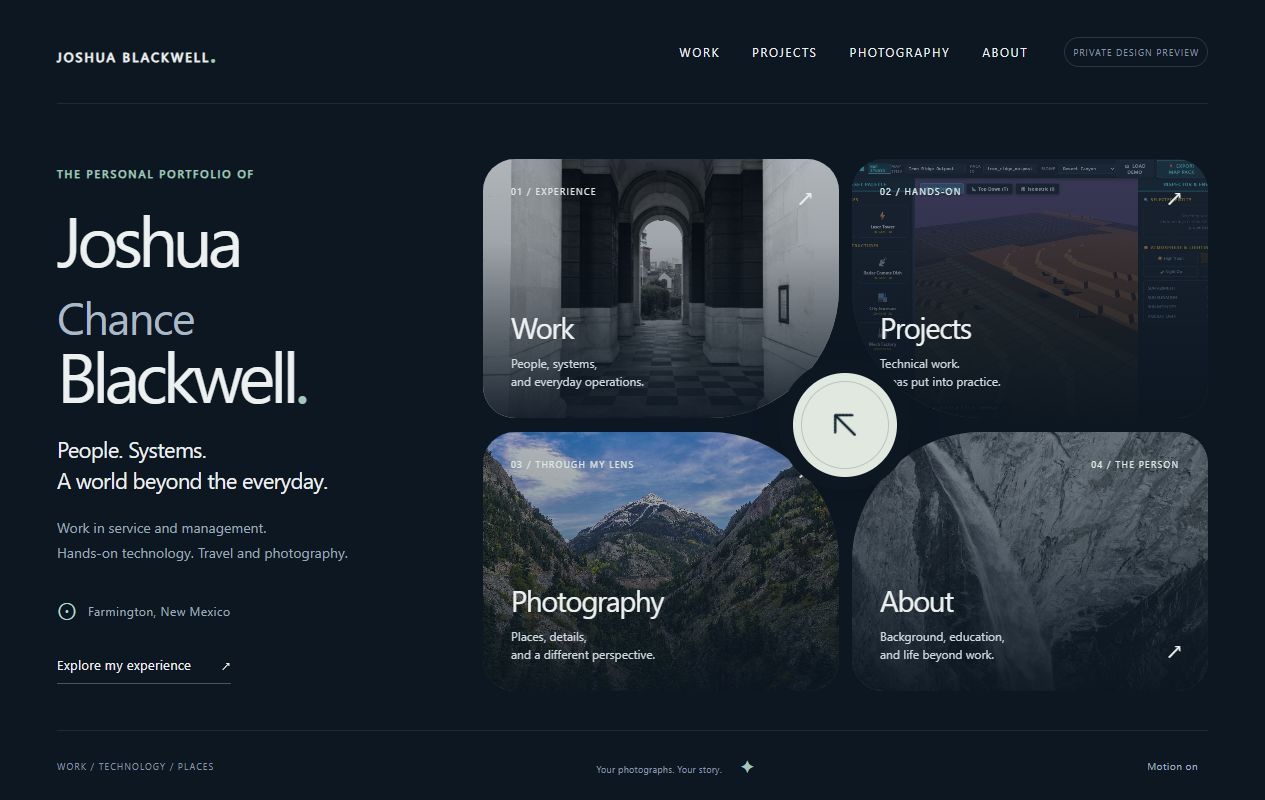
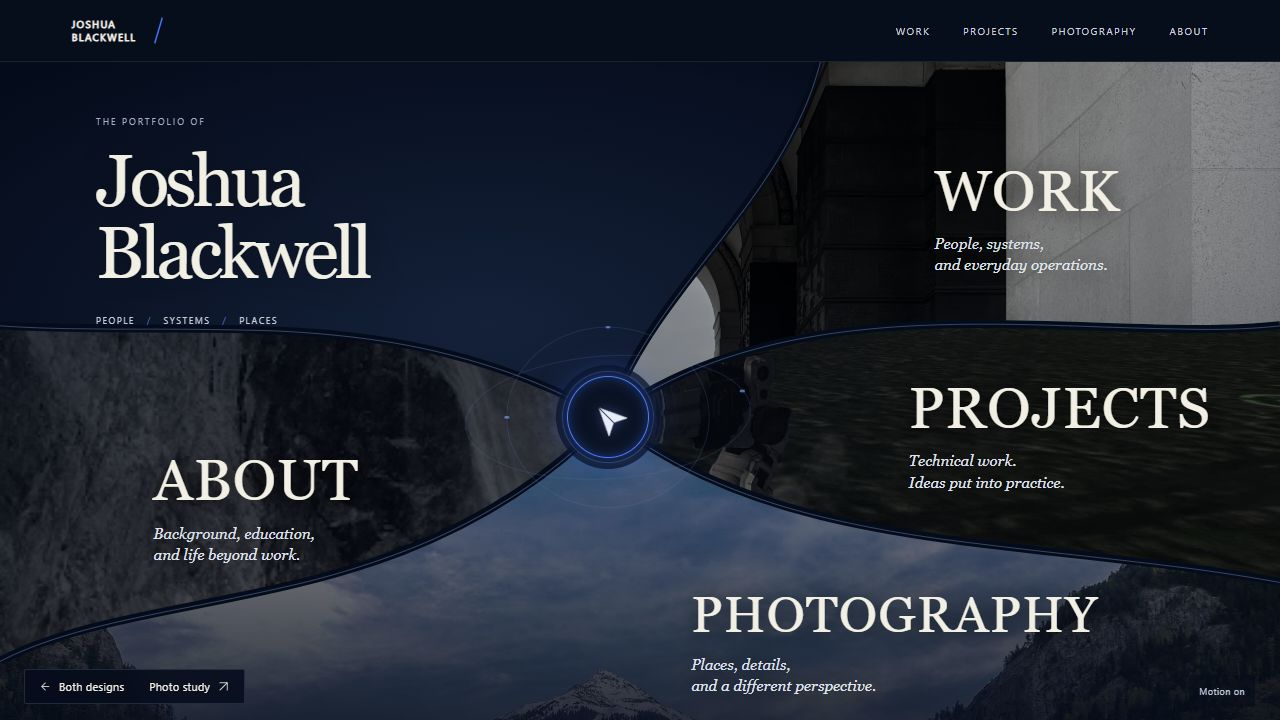
Rebuild switchboard as sweeping photographic regions

diff --git a/curved/index.html b/curved/index.html
@@ -1,25 +1,26 @@
 <!doctype html>
-<html lang="en"><head><meta charset="utf-8"><meta name="viewport" content="width=device-width,initial-scale=1"><meta name="robots" content="noindex,nofollow"><meta name="theme-color" content="#091723"><title>Joshua Chance Blackwell — Personal portfolio preview</title><link rel="stylesheet" href="style.css"></head>
-<body><nav class="design-nav" aria-label="Design options"><a href="../">← Both designs</a><span>JOSHUA BLACKWELL / PORTFOLIO EXPLORATIONS</span><a href="../photo/">Photo study ↗</a></nav>
+<html lang="en"><head><meta charset="utf-8"><meta name="viewport" content="width=device-width,initial-scale=1"><meta name="robots" content="noindex,nofollow"><meta name="theme-color" content="#091723"><title>Joshua Chance Blackwell — Personal portfolio preview</title><link rel="stylesheet" href="style.css"><link rel="stylesheet" href="sweeping.css"></head>
+<body><nav class="design-nav" aria-label="Design options"><a href="../"><svg class="icon" viewBox="0 0 24 24" aria-hidden="true"><path d="M19 12H5m7-7-7 7 7 7"/></svg> Both designs</a><span>JOSHUA BLACKWELL / PORTFOLIO EXPLORATIONS</span><a href="../photo/">Photo study <svg class="icon" viewBox="0 0 24 24" aria-hidden="true"><path d="M5 19 19 5M5 5h14v14"/></svg></a></nav>
 <a class="skip" href="#main">Skip to content</a>
-<header class="masthead"><a class="brand" href="#" aria-label="Joshua Blackwell home">JOSHUA BLACKWELL<span class="brand-dot">.</span></a><nav aria-label="Main navigation"><a href="#work" data-open="work">Work</a><a href="#projects" data-open="projects">Projects</a><a href="#photography" data-open="photography">Photography</a><a href="#about" data-open="about">About</a></nav><span class="preview-tag">DESIGN PREVIEW</span></header>
+<header class="masthead"><a class="brand" href="#" aria-label="Joshua Blackwell home"><span>JOSHUA<br>BLACKWELL</span><svg viewBox="0 0 20 40" aria-hidden="true"><path d="M15 3 5 37"/></svg></a><nav aria-label="Main navigation"><a href="#work" data-open="work">Work</a><a href="#projects" data-open="projects">Projects</a><a href="#photography" data-open="photography">Photography</a><a href="#about" data-open="about">About</a></nav></header>
 <main id="main" tabindex="-1">
 <section class="landing" aria-labelledby="intro-title">
- <div class="intro"><p class="eyebrow">THE PERSONAL PORTFOLIO OF</p><h1 id="intro-title">Joshua<br><span>Chance</span><br>Blackwell<span class="period">.</span></h1><p class="intro-copy">People. Systems.<br> A world beyond the everyday.</p><p class="intro-detail">Work in service and management.<br>Hands-on technology. Travel and photography.</p><div class="location"><span class="location-mark" aria-hidden="true">⊙</span> Farmington, New Mexico</div><a class="text-link" href="#work" data-open="work">Explore my experience <span aria-hidden="true">↗</span></a></div>
- <div class="switchboard" aria-label="Choose a section">
-  <a class="tile tile-work" href="#work" data-open="work" data-angle="-135"><img src="../assets/europe-arches.jpg" alt="" aria-hidden="true"><div class="tile-shade"></div><span class="tile-number">01 / EXPERIENCE</span><div class="tile-label"><h2>Work</h2><p>People, systems,<br>and everyday operations.</p></div><span class="tile-plus" aria-hidden="true">↗</span></a>
-  <a class="tile tile-projects" href="#projects" data-open="projects" data-angle="-45"><img src="../assets/mod-tools-studio.jpg" alt="" aria-hidden="true"><div class="tile-shade"></div><span class="tile-number">02 / HANDS-ON</span><div class="tile-label"><h2>Projects</h2><p>Technical work.<br>Ideas put into practice.</p></div><span class="tile-plus" aria-hidden="true">↗</span></a>
-  <a class="tile tile-photography" href="#photography" data-open="photography" data-angle="135"><img src="../assets/colorado-valley.jpg" alt="" aria-hidden="true"><div class="tile-shade"></div><span class="tile-number">03 / THROUGH MY LENS</span><div class="tile-label"><h2>Photography</h2><p>Places, details,<br>and a different perspective.</p></div><span class="tile-plus" aria-hidden="true">↗</span></a>
-  <a class="tile tile-about" href="#about" data-open="about" data-angle="45"><img src="../assets/colorado-waterfall.jpg" alt="" aria-hidden="true"><div class="tile-shade"></div><span class="tile-number">04 / THE PERSON</span><div class="tile-label"><h2>About</h2><p>Background, education,<br>and life beyond work.</p></div><span class="tile-plus" aria-hidden="true">↗</span></a>
-  <div class="compass" aria-hidden="true"><div class="compass-ring"></div><svg class="compass-arrow" viewBox="0 0 60 60"><path d="M14 30h32M32 16l14 14-14 14"/></svg></div>
+<div class="intro"><p class="eyebrow">THE PORTFOLIO OF</p><h1 id="intro-title">Joshua<br>Blackwell</h1><p class="intro-copy">PEOPLE <span>/</span> SYSTEMS <span>/</span> PLACES</p><p class="intro-detail">Service, management &amp; technology.<br>A life of learning and exploration.</p><a class="text-link" href="#work" data-open="work">Explore my experience <svg class="icon" viewBox="0 0 24 24" aria-hidden="true"><path d="M5 19 19 5M5 5h14v14"/></svg></a></div>
+ <div class="switchboard" aria-label="Choose a section"><svg class="shape-definitions" aria-hidden="true"><defs><clipPath id="clip-work" clipPathUnits="objectBoundingBox"><path d="M .64 0 L 1 0 L 1 .40 C .86 .43 .63 .32 .475 .54 C .51 .34 .61 .22 .64 0 Z"/></clipPath><clipPath id="clip-projects" clipPathUnits="objectBoundingBox"><path d="M 1 .40 L 1 .79 C .8 .72 .61 .75 .475 .54 C .63 .32 .86 .43 1 .40 Z"/></clipPath><clipPath id="clip-photography" clipPathUnits="objectBoundingBox"><path d="M 0 .91 C .12 .79 .32 .85 .475 .54 C .61 .75 .8 .72 1 .79 L 1 1 L 0 1 Z"/></clipPath><clipPath id="clip-about" clipPathUnits="objectBoundingBox"><path d="M 0 .40 C .16 .42 .31 .36 .475 .54 C .32 .85 .12 .79 0 .91 Z"/></clipPath></defs></svg>
+  <a class="tile tile-work" href="#work" data-open="work" data-angle="-135"><img src="../assets/europe-arches.jpg" alt="" aria-hidden="true"><div class="tile-shade"></div><span class="tile-number">01 / EXPERIENCE</span><div class="tile-label"><h2>Work</h2><p>People, systems,<br>and everyday operations.</p></div><span class="tile-plus" aria-hidden="true"><svg class="icon" viewBox="0 0 24 24" aria-hidden="true"><path d="M5 19 19 5M5 5h14v14"/></svg></span></a>
+  <a class="tile tile-projects" href="#projects" data-open="projects" data-angle="-45"><img src="../assets/mw3-grasslands.jpg" alt="" aria-hidden="true"><div class="tile-shade"></div><span class="tile-number">02 / HANDS-ON</span><div class="tile-label"><h2>Projects</h2><p>Technical work.<br>Ideas put into practice.</p></div><span class="tile-plus" aria-hidden="true"><svg class="icon" viewBox="0 0 24 24" aria-hidden="true"><path d="M5 19 19 5M5 5h14v14"/></svg></span></a>
+  <a class="tile tile-photography" href="#photography" data-open="photography" data-angle="135"><img src="../assets/colorado-valley.jpg" alt="" aria-hidden="true"><div class="tile-shade"></div><span class="tile-number">03 / THROUGH MY LENS</span><div class="tile-label"><h2>Photography</h2><p>Places, details,<br>and a different perspective.</p></div><span class="tile-plus" aria-hidden="true"><svg class="icon" viewBox="0 0 24 24" aria-hidden="true"><path d="M5 19 19 5M5 5h14v14"/></svg></span></a>
+  <a class="tile tile-about" href="#about" data-open="about" data-angle="45"><img src="../assets/colorado-waterfall.jpg" alt="" aria-hidden="true"><div class="tile-shade"></div><span class="tile-number">04 / THE PERSON</span><div class="tile-label"><h2>About</h2><p>Background, education,<br>and life beyond work.</p></div><span class="tile-plus" aria-hidden="true"><svg class="icon" viewBox="0 0 24 24" aria-hidden="true"><path d="M5 19 19 5M5 5h14v14"/></svg></span></a>
+<svg class="contours" viewBox="0 0 1 1" preserveAspectRatio="none" aria-hidden="true"><g class="channels"><path d="M .64 0 C .61 .22 .51 .34 .475 .54 C .63 .32 .86 .43 1 .40"/><path d="M 0 .40 C .16 .42 .31 .36 .475 .54 C .61 .75 .8 .72 1 .79"/><path d="M 0 .91 C .12 .79 .32 .85 .475 .54"/></g><g class="fine-lines"><path d="M .641 0 C .611 .22 .511 .34 .476 .54 C .631 .32 .861 .43 1 .401"/><path d="M 0 .401 C .16 .421 .31 .361 .475 .541 C .61 .751 .8 .721 1 .791"/><path d="M 0 .911 C .12 .791 .32 .851 .476 .54"/></g><g class="orbit-lines"><ellipse cx=".475" cy=".54" rx=".079" ry=".137"/><ellipse cx=".475" cy=".54" rx=".113" ry=".092" transform="rotate(-18 .475 .54)"/></g><g class="orbit-dots"><circle cx=".396" cy=".54" r=".002"/><circle cx=".475" cy=".403" r=".0016"/><circle cx=".58" cy=".5" r=".002"/></g></svg>
+  <div class="compass" aria-hidden="true"><div class="compass-ring"></div><svg class="compass-arrow" viewBox="0 0 60 60"><path class="plane-body" d="M47 30 13 14l8 16-8 16 34-16Z"/><path class="plane-fold" d="M21 30h26"/></svg></div>
  </div>
 </section>
-<footer class="home-footer"><span>WORK / TECHNOLOGY / PLACES</span><span>Your photographs. Your story.<i aria-hidden="true">✦</i></span><button id="motion-toggle" type="button" aria-pressed="false">Motion on</button></footer>
+<footer class="home-footer"><span>WORK / TECHNOLOGY / PLACES</span><span>Your photographs. Your story.<i aria-hidden="true"></i></span><button id="motion-toggle" type="button" aria-pressed="false">Motion on</button></footer>
 </main>
-<dialog id="chapter" aria-labelledby="chapter-title"><div class="chapter-shell"><header class="chapter-bar"><button class="back" type="button"><span aria-hidden="true">↙</span> Back to overview</button><span id="chapter-index"></span><button class="close" type="button" aria-label="Close section">×</button></header><div id="chapter-content"></div></div></dialog>
-<template id="work-content"><section class="chapter-hero"><div><p class="eyebrow">01 / WORK & MANAGEMENT</p><h2 id="chapter-title" tabindex="-1">Experience,<br>in practice.</h2><p class="chapter-lead">My background spans service operations, retail management, and regional inventory. Across those roles, I’ve supported the systems people use, trained colleagues, and helped resolve the problems that interrupt their work.</p></div><figure class="hero-photo"><img src="../assets/europe-arches.jpg" alt="A sequence of stone arches above a patterned floor"><figcaption>From the Europe album · November 2024</figcaption></figure></section><section class="experience-list" aria-label="Employment history"><article><div class="job-date">2015 — PRESENT<span>Farmington, NM</span></div><div><p class="eyebrow">ANIMAS NISSAN HYUNDAI</p><h3>Senior Service Advisor</h3><ul><li>Support scheduling and customer-management systems used in daily operations.</li><li>Troubleshoot access issues, workflow errors, and system-related problems.</li><li>Train staff on digital tools and standardized procedures.</li><li>Document workflows, maintain digital records, and coordinate across departments.</li></ul></div></article><article><div class="job-date">2010 — 2015<span>Farmington, NM</span></div><div><p class="eyebrow">AT&T MOBILITY</p><h3>Retail Sales Manager</h3><p>Supported point-of-sale systems and internal software. Assisted staff with access and troubleshooting, and maintained documentation and training materials.</p></div></article><article><div class="job-date">2003 — 2010<span>Farmington, NM</span></div><div><p class="eyebrow">ALLTEL WIRELESS</p><h3>Regional Inventory Manager</h3><p>Managed inventory systems across multiple locations, maintained reporting and records, and helped troubleshoot system discrepancies.</p></div></article></section><section class="skills-band"><p class="eyebrow">PRACTICAL STRENGTHS</p><div class="skill-list"><span>End-user support</span><span>Hardware diagnostics</span><span>Software configuration</span><span>Account & access support</span><span>Documentation</span><span>User training</span></div></section><button class="chapter-next" data-go="about">Background & education <span>↗</span></button></template>
-<template id="projects-content"><section class="chapter-hero project-intro"><div><p class="eyebrow">02 / TECHNICAL WORK</p><h2 id="chapter-title" tabindex="-1">Learning by<br>building.</h2><p class="chapter-lead">A home lab for running services, working through technical problems, and documenting what works.</p></div><div class="lab-diagram" aria-label="Five systems supporting virtual machines, networking and services"><span class="diagram-label">HOME LAB / FIVE SYSTEMS</span><div class="lab-nodes"><i></i><i></i><i></i><i></i><i></i></div><strong>Proxmox / OPNsense</strong><span>Virtualization · Firewall · Network segmentation</span></div></section><section class="project-grid"><article><span class="eyebrow">01 / INFRASTRUCTURE</span><h3>Five systems.<br>One place to experiment.</h3><p>I designed and maintain a virtualized home lab, deploying virtual machines in Proxmox and managing an OPNsense firewall with network segmentation.</p></article><article><span class="eyebrow">02 / SERVICES</span><h3>Self-hosted,<br>maintained, documented.</h3><p>The environment hosts web services, game servers, and media servers. I handle updates, backups, monitoring, troubleshooting, and configuration documentation.</p></article></section><section class="project-feature"><img src="../assets/mw3-grasslands.jpg" alt="Gameplay view from the MechWarrior 3 Recomp project"><div><p class="eyebrow">SELECTED PROJECT</p><h3>MechWarrior 3 Recomp</h3><p>An experimental game-modernization project with a native runtime, Vulkan rendering, and editing tools.</p><p class="draft-note">Project notes are being expanded.</p><a class="text-link" href="https://github.com/roswellien/MW3Recomp" target="_blank" rel="noreferrer">View public repository ↗</a></div></section><button class="chapter-next" data-go="photography">See a different perspective <span>↗</span></button></template>
-<template id="photography-content"><section class="photo-intro"><p class="eyebrow">03 / PHOTOGRAPHY & TRAVEL</p><h2 id="chapter-title" tabindex="-1">Elsewhere.</h2><p>Selected photographs from my travel albums.</p><div class="photo-filters" role="group" aria-label="Filter photographs"><button aria-pressed="true" data-filter="all">All photographs</button><button aria-pressed="false" data-filter="colorado">Colorado / 2013</button><button aria-pressed="false" data-filter="europe">Europe / 2024</button></div></section><section class="photo-grid" aria-label="Selected photographs"><figure data-place="colorado"><button class="photo-open" data-photo="0" aria-label="View Colorado mountain valley"><img src="../assets/colorado-valley.jpg" alt="A Colorado mountain valley with evergreen forest and a blue sky"></button><figcaption><span>Mountain valley</span><small>Colorado · September 2013</small></figcaption></figure><figure data-place="europe"><button class="photo-open" data-photo="1" aria-label="View European stone arches"><img src="../assets/europe-arches.jpg" alt="Repeating stone arches and a checkered walkway"></button><figcaption><span>Through the arches</span><small>Europe · November 2024</small></figcaption></figure><figure data-place="colorado"><button class="photo-open" data-photo="2" aria-label="View Colorado waterfall"><img src="../assets/colorado-waterfall.jpg" alt="A waterfall descending between steep rock faces"></button><figcaption><span>Water & stone</span><small>Colorado · September 2013</small></figcaption></figure></section><p class="selection-note">An opening selection. More images and personal travel notes will follow.</p><button class="chapter-next" data-go="about">Meet the person behind the lens <span>↗</span></button></template>
-<template id="about-content"><section class="chapter-hero"><div><p class="eyebrow">04 / BACKGROUND & EDUCATION</p><h2 id="chapter-title" tabindex="-1">Based in<br>New Mexico.<br>Still exploring.</h2><p class="chapter-lead">I’m Joshua Chance Blackwell. My professional life brings together service, management, and technology. Outside work, my interests include travel, photography, and hands-on technical projects.</p></div><figure class="hero-photo"><img src="../assets/colorado-valley.jpg" alt="A mountain valley photographed during a Colorado trip"><figcaption>Sunday in Colorado · September 2013</figcaption></figure></section><section class="education"><p class="eyebrow">EDUCATION</p><article><span>IN PROGRESS</span><h3>Bachelor of Science<br>Business Administration</h3><p>University of New Mexico</p></article><article><span>ASSOCIATE DEGREE</span><h3>Applied Science<br>Information Technology</h3><p>San Juan College</p></article></section><section class="about-personal"><h3>Beyond the job title.</h3><p>Travel and photography have a place here alongside my professional background. This section will grow with the places, images, and personal stories I choose to share.</p><p class="draft-note"></p></section><button class="chapter-next" data-go="work">Back to professional experience <span>↗</span></button></template>
-<dialog id="lightbox" aria-label="Photograph viewer"><button class="lightbox-close" aria-label="Close photograph">×</button><button class="photo-prev" aria-label="Previous photograph">←</button><figure><img id="lightbox-image" alt=""><figcaption id="lightbox-caption"></figcaption></figure><button class="photo-next" aria-label="Next photograph">→</button></dialog>
+<dialog id="chapter" aria-labelledby="chapter-title"><div class="chapter-shell"><header class="chapter-bar"><button class="back" type="button"><span aria-hidden="true"><svg class="icon" viewBox="0 0 24 24" aria-hidden="true"><path d="M19 12H5m7-7-7 7 7 7"/></svg></span> Back to overview</button><span id="chapter-index"></span><button class="close" type="button" aria-label="Close section"><svg class="icon" viewBox="0 0 24 24" aria-hidden="true"><path d="m6 6 12 12M6 18 18 6"/></svg></button></header><div id="chapter-content"></div></div></dialog>
+<template id="work-content"><section class="chapter-hero"><div><p class="eyebrow">01 / WORK & MANAGEMENT</p><h2 id="chapter-title" tabindex="-1">Experience,<br>in practice.</h2><p class="chapter-lead">My background spans service operations, retail management, and regional inventory. Across those roles, I’ve supported the systems people use, trained colleagues, and helped resolve the problems that interrupt their work.</p></div><figure class="hero-photo"><img src="../assets/europe-arches.jpg" alt="A sequence of stone arches above a patterned floor"><figcaption>From the Europe album · November 2024</figcaption></figure></section><section class="experience-list" aria-label="Employment history"><article><div class="job-date">2015 — PRESENT<span>Farmington, NM</span></div><div><p class="eyebrow">ANIMAS NISSAN HYUNDAI</p><h3>Senior Service Advisor</h3><ul><li>Support scheduling and customer-management systems used in daily operations.</li><li>Troubleshoot access issues, workflow errors, and system-related problems.</li><li>Train staff on digital tools and standardized procedures.</li><li>Document workflows, maintain digital records, and coordinate across departments.</li></ul></div></article><article><div class="job-date">2010 — 2015<span>Farmington, NM</span></div><div><p class="eyebrow">AT&T MOBILITY</p><h3>Retail Sales Manager</h3><p>Supported point-of-sale systems and internal software. Assisted staff with access and troubleshooting, and maintained documentation and training materials.</p></div></article><article><div class="job-date">2003 — 2010<span>Farmington, NM</span></div><div><p class="eyebrow">ALLTEL WIRELESS</p><h3>Regional Inventory Manager</h3><p>Managed inventory systems across multiple locations, maintained reporting and records, and helped troubleshoot system discrepancies.</p></div></article></section><section class="skills-band"><p class="eyebrow">PRACTICAL STRENGTHS</p><div class="skill-list"><span>End-user support</span><span>Hardware diagnostics</span><span>Software configuration</span><span>Account & access support</span><span>Documentation</span><span>User training</span></div></section><button class="chapter-next" data-go="about">Background & education <span><svg class="icon" viewBox="0 0 24 24" aria-hidden="true"><path d="M5 19 19 5M5 5h14v14"/></svg></span></button></template>
+<template id="projects-content"><section class="chapter-hero project-intro"><div><p class="eyebrow">02 / TECHNICAL WORK</p><h2 id="chapter-title" tabindex="-1">Learning by<br>building.</h2><p class="chapter-lead">A home lab for running services, working through technical problems, and documenting what works.</p></div><div class="lab-diagram" aria-label="Five systems supporting virtual machines, networking and services"><span class="diagram-label">HOME LAB / FIVE SYSTEMS</span><div class="lab-nodes"><i></i><i></i><i></i><i></i><i></i></div><strong>Proxmox / OPNsense</strong><span>Virtualization · Firewall · Network segmentation</span></div></section><section class="project-grid"><article><span class="eyebrow">01 / INFRASTRUCTURE</span><h3>Five systems.<br>One place to experiment.</h3><p>I designed and maintain a virtualized home lab, deploying virtual machines in Proxmox and managing an OPNsense firewall with network segmentation.</p></article><article><span class="eyebrow">02 / SERVICES</span><h3>Self-hosted,<br>maintained, documented.</h3><p>The environment hosts web services, game servers, and media servers. I handle updates, backups, monitoring, troubleshooting, and configuration documentation.</p></article></section><section class="project-feature"><img src="../assets/mw3-grasslands.jpg" alt="Gameplay view from the MechWarrior 3 Recomp project"><div><p class="eyebrow">SELECTED PROJECT</p><h3>MechWarrior 3 Recomp</h3><p>An experimental game-modernization project with a native runtime, Vulkan rendering, and editing tools.</p><p class="draft-note">Project notes are being expanded.</p><a class="text-link" href="https://github.com/roswellien/MW3Recomp" target="_blank" rel="noreferrer">View public repository <svg class="icon" viewBox="0 0 24 24" aria-hidden="true"><path d="M5 19 19 5M5 5h14v14"/></svg></a></div></section><button class="chapter-next" data-go="photography">See a different perspective <span><svg class="icon" viewBox="0 0 24 24" aria-hidden="true"><path d="M5 19 19 5M5 5h14v14"/></svg></span></button></template>
+<template id="photography-content"><section class="photo-intro"><p class="eyebrow">03 / PHOTOGRAPHY & TRAVEL</p><h2 id="chapter-title" tabindex="-1">Elsewhere.</h2><p>Selected photographs from my travel albums.</p><div class="photo-filters" role="group" aria-label="Filter photographs"><button aria-pressed="true" data-filter="all">All photographs</button><button aria-pressed="false" data-filter="colorado">Colorado / 2013</button><button aria-pressed="false" data-filter="europe">Europe / 2024</button></div></section><section class="photo-grid" aria-label="Selected photographs"><figure data-place="colorado"><button class="photo-open" data-photo="0" aria-label="View Colorado mountain valley"><img src="../assets/colorado-valley.jpg" alt="A Colorado mountain valley with evergreen forest and a blue sky"></button><figcaption><span>Mountain valley</span><small>Colorado · September 2013</small></figcaption></figure><figure data-place="europe"><button class="photo-open" data-photo="1" aria-label="View European stone arches"><img src="../assets/europe-arches.jpg" alt="Repeating stone arches and a checkered walkway"></button><figcaption><span>Through the arches</span><small>Europe · November 2024</small></figcaption></figure><figure data-place="colorado"><button class="photo-open" data-photo="2" aria-label="View Colorado waterfall"><img src="../assets/colorado-waterfall.jpg" alt="A waterfall descending between steep rock faces"></button><figcaption><span>Water & stone</span><small>Colorado · September 2013</small></figcaption></figure></section><p class="selection-note">An opening selection. More images and personal travel notes will follow.</p><button class="chapter-next" data-go="about">Meet the person behind the lens <span><svg class="icon" viewBox="0 0 24 24" aria-hidden="true"><path d="M5 19 19 5M5 5h14v14"/></svg></span></button></template>
+<template id="about-content"><section class="chapter-hero"><div><p class="eyebrow">04 / BACKGROUND & EDUCATION</p><h2 id="chapter-title" tabindex="-1">Based in<br>New Mexico.<br>Still exploring.</h2><p class="chapter-lead">I’m Joshua Chance Blackwell. My professional life brings together service, management, and technology. Outside work, my interests include travel, photography, and hands-on technical projects.</p></div><figure class="hero-photo"><img src="../assets/colorado-valley.jpg" alt="A mountain valley photographed during a Colorado trip"><figcaption>Sunday in Colorado · September 2013</figcaption></figure></section><section class="education"><p class="eyebrow">EDUCATION</p><article><span>IN PROGRESS</span><h3>Bachelor of Science<br>Business Administration</h3><p>University of New Mexico</p></article><article><span>ASSOCIATE DEGREE</span><h3>Applied Science<br>Information Technology</h3><p>San Juan College</p></article></section><section class="about-personal"><h3>Beyond the job title.</h3><p>Travel and photography have a place here alongside my professional background. This section will grow with the places, images, and personal stories I choose to share.</p><p class="draft-note"></p></section><button class="chapter-next" data-go="work">Back to professional experience <span><svg class="icon" viewBox="0 0 24 24" aria-hidden="true"><path d="M5 19 19 5M5 5h14v14"/></svg></span></button></template>
+<dialog id="lightbox" aria-label="Photograph viewer"><button class="lightbox-close" aria-label="Close photograph"><svg class="icon" viewBox="0 0 24 24" aria-hidden="true"><path d="m6 6 12 12M6 18 18 6"/></svg></button><button class="photo-prev" aria-label="Previous photograph"><svg class="icon" viewBox="0 0 24 24" aria-hidden="true"><path d="M19 12H5m7-7-7 7 7 7"/></svg></button><figure><img id="lightbox-image" alt=""><figcaption id="lightbox-caption"></figcaption></figure><button class="photo-next" aria-label="Next photograph"><svg class="icon" viewBox="0 0 24 24" aria-hidden="true"><path d="M5 12h14m-7-7 7 7-7 7"/></svg></button></dialog>
 <script src="app.js"></script></body></html>

diff --git a/curved/sweeping.css b/curved/sweeping.css
@@ -1,0 +1,10 @@
+/* Full-width photographic switchboard. The original grid styles remain only for chapter content. */
+:root{--night:#030b1b;--ivory:#f3efe4;--electric:#3375ff}body{background:var(--night);color:var(--ivory)}.icon{width:18px;height:18px;display:inline-block;vertical-align:middle;flex-shrink:0;fill:none;stroke:currentColor;stroke-width:1.5;stroke-linecap:round;stroke-linejoin:round}.design-nav{position:fixed;left:24px;bottom:16px;z-index:50;padding:9px 14px;background:#030b1bdf;border:1px solid #6980a340;border-radius:2px;gap:25px;backdrop-filter:blur(12px);font-size:11px}.design-nav span{display:none}.design-nav a{display:flex;gap:7px;align-items:center;text-decoration:none}.design-nav a:hover{color:#8aafff}.design-nav .icon{width:13px;height:13px}.masthead{height:62px;min-height:62px;margin:0;padding:0 5.6%;background:#050d1c;border-bottom:1px solid #ffffff14;position:relative;z-index:30;max-width:none;gap:25px}.brand{display:flex;align-items:center;gap:15px;font-size:10px;line-height:1.24;letter-spacing:.13em}.brand>svg{height:31px;width:15px;stroke:var(--electric);stroke-width:2;fill:none}.masthead nav{font-size:10px;gap:33px;letter-spacing:.14em}.masthead nav a{color:#cbd2df}.masthead nav a:hover{color:#fff}.landing{display:block;position:relative;padding:0;margin:0;max-width:none;min-height:720px;height:calc(100svh - 62px);overflow:hidden;isolation:isolate;background:radial-gradient(ellipse at 38% 40%,#10213b,#030b1b 60%)}.intro{position:absolute;left:7.5%;top:10%;width:35%;z-index:15;pointer-events:none}.intro .eyebrow{font:9px/1.4 'Segoe UI',sans-serif;color:#a0b0ca;letter-spacing:.22em;margin-bottom:18px}.intro h1{font-family:Georgia,'Times New Roman',serif;font-size:clamp(53px,5.7vw,94px);font-weight:400;letter-spacing:-.055em;line-height:.99;margin:0 0 23px;color:var(--ivory);text-shadow:0 2px 35px #0006}.intro-copy{font-size:9px;font-weight:500;letter-spacing:.16em;line-height:1.6;color:#c3cddd;margin:0}.intro-copy>span{color:#477cff;padding:0 8px}.intro-detail{font-family:Georgia,serif;font-size:14px;font-style:italic;line-height:1.6;color:#9eacc3;margin:18px 0}.intro .text-link{pointer-events:auto;font-size:10px;border-color:#5376ac44;gap:14px;padding-bottom:8px;color:#d6dce8}.intro .text-link .icon{width:13px;height:13px}.switchboard{position:absolute;inset:0;width:100%;height:100%;display:block;gap:0}.shape-definitions{position:absolute;width:0;height:0;overflow:hidden}.tile{position:absolute;inset:0;width:100%;height:100%;border-radius:0!important;will-change:filter;isolation:auto;overflow:hidden;transition:filter .55s;transform:none!important;background:#0b162b;outline:0}.tile-work{clip-path:url(#clip-work)}.tile-projects{clip-path:url(#clip-projects)}.tile-photography{clip-path:url(#clip-photography)}.tile-about{clip-path:url(#clip-about)}.tile>img{width:100%;height:100%;object-fit:cover;opacity:1;transition:transform 1.4s cubic-bezier(.2,.8,.2,1),filter .7s}.tile-work>img{object-position:72% 40%;filter:saturate(.45) brightness(.63)}.tile-projects>img{object-position:70% 50%;filter:saturate(.4) brightness(.6);opacity:1}.tile-photography>img{object-position:50% 64%;filter:saturate(.65) brightness(.72)}.tile-about>img{object-position:26% 56%;filter:saturate(.25) brightness(.48);opacity:1}.tile-shade{background:linear-gradient(100deg,#030b1b4d,#030b1b1a 60%,#030b1b4d);z-index:1}.tile-work .tile-shade{background:linear-gradient(110deg,#030b1b55,#030b1b00 65%,#030b1b4d),linear-gradient(0deg,#030b1b8c,transparent 70%)}.tile-projects .tile-shade{background:linear-gradient(100deg,#030b1bc9,#030b1b28 80%)}.tile-photography .tile-shade{background:linear-gradient(0deg,#030b1bc9,transparent 53%,#030b1b1a)}.tile-about .tile-shade{background:linear-gradient(90deg,#030b1b66,#030b1b33),linear-gradient(0deg,transparent,#030b1b80)}.tile-label{position:absolute;right:auto;bottom:auto;z-index:3;width:27%;text-shadow:0 2px 24px #000b}.tile-work .tile-label{left:73%;top:15%}.tile-projects .tile-label{left:71%;top:48%}.tile-photography .tile-label{left:54%;top:83%;width:39%}.tile-about .tile-label{left:12%;top:59%;width:25%}.tile h2{font:400 clamp(36px,4.5vw,70px)/1.05 Georgia,'Times New Roman',serif;text-transform:uppercase;letter-spacing:.025em;margin:0 0 13px}.tile p{font:italic clamp(12px,1.15vw,18px)/1.45 Georgia,'Times New Roman',serif;color:#dee3ed;letter-spacing:.01em}.tile-number,.tile-plus{display:none}.tile:focus-visible .tile-label{outline:2px solid #82a7ff;outline-offset:14px}.tile:hover{filter:brightness(1.13)}.tile:hover>img,.tile:focus-visible>img{transform:scale(1.035)}.contours{position:absolute;inset:0;z-index:6;width:100%;height:100%;pointer-events:none;overflow:visible}.contours path,.contours ellipse{fill:none;vector-effect:non-scaling-stroke}.channels path{stroke:#030b1b;stroke-width:8}.fine-lines path{stroke:#718ab2;stroke-width:.7;opacity:.65}.orbit-lines ellipse{stroke:#5680ce;stroke-width:.8;opacity:.22}.orbit-dots circle{fill:#75a6ff;opacity:.65}.compass{left:47.5%;top:54%;width:90px;height:90px;z-index:10;background:#071124;color:#f4f2e9;box-shadow:0 0 0 1px #7a9cdb40,0 0 0 7px #071124c4,0 0 30px #2166ff66,inset 0 0 26px #1c4e9f30}.compass-ring{inset:4px;border:1.5px solid #3d7eff;border-radius:50%;box-shadow:0 0 14px #266bff77,inset 0 0 10px #2b70ff55}.compass-arrow{width:47px;height:47px;filter:drop-shadow(0 0 6px #79a2ff55)}.compass-arrow .plane-body{fill:#e7edf8;stroke:#e7edf8;stroke-width:1;stroke-linejoin:round}.compass-arrow .plane-fold{fill:none;stroke:#14284c;stroke-width:1}.home-footer{position:absolute;right:25px;bottom:13px;z-index:20;border:0;margin:0;padding:0;min-height:0;gap:0}.home-footer>span{display:none}.home-footer #motion-toggle{font-size:9px;color:#c1cce0;padding:10px;background:#030b1b99}.landing.leaving .intro{transform:translateX(-25px);opacity:0}.landing.leaving .tile:not(.chosen){opacity:.25;transform:none!important}.transition-surface{border-radius:0;box-shadow:none;z-index:100;background:#071124}.transition-surface img{opacity:.68}.chapter-bar .icon{width:20px;height:20px}.chapter-next .icon{width:25px;height:25px}.chapter-hero h2,.photo-intro h2{font-family:Georgia,'Times New Roman',serif}.close .icon,.lightbox-close .icon{width:25px;height:25px}
+@media(min-width:1800px){.landing{min-height:850px}.intro{top:12%}}
+@media(max-width:1050px) and (min-width:761px){.intro{left:6%;width:38%;top:9%}.intro h1{font-size:64px}.intro-detail{font-size:12px}.tile h2{font-size:40px}.tile-work .tile-label{left:71%}.tile p{font-size:13px}.compass{width:78px;height:78px}}
+@media(max-width:760px){.masthead{height:62px;padding:0 20px;gap:15px;flex-wrap:nowrap}.brand{font-size:8px;gap:8px}.brand>svg{height:26px;width:10px}.masthead nav{gap:13px;font-size:8px;letter-spacing:.07em}.landing{height:auto;min-height:0;overflow:visible;padding:0 0 16px}.intro{position:relative;left:auto;top:auto;width:auto;padding:36px 25px 30px;background:radial-gradient(ellipse at 70% 80%,#122642,#030b1b 75%)}.intro h1{font-size:60px;line-height:.98;margin-bottom:20px}.intro h1 br{display:block}.intro .eyebrow{font-size:8px}.intro-copy{font-size:8px}.intro-detail{font-size:13px}.intro .text-link{margin-top:4px}.switchboard{position:relative;display:flex;flex-direction:column;inset:auto;height:auto;gap:3px;padding-bottom:10px}.tile{position:relative;inset:auto;height:240px;min-height:240px;width:100%;clip-path:none;border-radius:0!important}.tile-work{order:1}.tile-projects{order:2}.tile-photography{order:3}.tile-about{order:4}.tile>img{object-position:center 50%}.tile-work>img{object-position:center 49%}.tile-photography>img{object-position:50% 55%}.tile-about>img{object-position:50% 55%}.tile-shade{background:linear-gradient(90deg,#030b1bc4,#030b1b33)!important}.tile .tile-label{left:26px;top:auto;bottom:33px;width:80%}.tile h2,.tile-photography h2{font-size:39px;margin-bottom:10px}.tile p{font-size:15px}.tile-number{display:block;top:21px;left:26px;font:8px 'Segoe UI',sans-serif;letter-spacing:.17em;max-width:none}.tile-about .tile-number{left:26px;right:auto}.contours{display:none}.compass{left:auto;top:-45px;right:22px;transform:none;width:68px;height:68px;box-shadow:0 0 0 6px #071124c4,0 0 22px #2166ff66}.compass-arrow{width:37px;height:37px}.design-nav{left:0;bottom:0;width:100%;justify-content:space-between;padding:14px 20px;border:0;border-top:1px solid #5375aa40;border-radius:0;font-size:11px}.home-footer{position:relative;right:auto;bottom:auto;padding:0 18px 58px;justify-content:flex-end}.home-footer #motion-toggle{background:none}.tile:focus-visible .tile-label{outline-offset:8px}.chapter-hero h2,.photo-intro h2{font-size:49px}}
+@media(prefers-reduced-motion:reduce){.tile:hover>img,.tile:focus-visible>img{transform:none}.compass-arrow{filter:none}}
+
+@media(min-width:761px){.landing{min-height:580px}.intro{top:8%}.intro-detail,.intro .text-link{display:none}.tile-photography>img{object-position:50% 0%}.tile-photography .tile-label{top:80%;left:54%}.tile-photography h2{font-size:clamp(34px,4vw,64px)}.tile-projects>img{object-position:50% 38%}}
+
+@media(max-width:760px){.compass{z-index:25}}

diff --git a/curved/app.js b/curved/app.js
@@ -8,20 +8,20 @@
  setMotion();media.addEventListener('change',setMotion);$('#motion-toggle').addEventListener('click',()=>{manualMotion=!reduce;setMotion();});
  function tick(){let delta=(((targetAngle-currentAngle+180)%360+360)%360)-180;currentAngle+=delta*.16;arrow.style.transform=`rotate(${currentAngle}deg)`;if(Math.abs(delta)>.08)raf=requestAnimationFrame(tick);else{currentAngle=targetAngle;raf=0;}}
  function point(angle){targetAngle=angle;if(reduce){currentAngle=angle;arrow.style.transform=`rotate(${angle}deg)`;}else if(!raf)raf=requestAnimationFrame(tick);}
- function pointAt(el){const a=compass.getBoundingClientRect(),b=el.getBoundingClientRect();point(Math.atan2(b.y+b.height/2-a.y-a.height/2,b.x+b.width/2-a.x-a.width/2)*180/Math.PI);}
+ function pointAt(el){const a=compass.getBoundingClientRect(),b=(el.querySelector('.tile-label')||el).getBoundingClientRect();point(Math.atan2(b.y+b.height/2-a.y-a.height/2,b.x+b.width/2-a.x-a.width/2)*180/Math.PI);}
  document.addEventListener('pointermove',e=>{if(active||e.pointerType==='touch')return;const tile=e.target.closest('.tile');if(tile){pointAt(tile);return;}const r=compass.getBoundingClientRect();point(Math.atan2(e.clientY-r.y-r.height/2,e.clientX-r.x-r.width/2)*180/Math.PI);},{passive:true});
  $$('[data-open]').forEach(el=>{el.addEventListener('focus',()=>{const tile=$(`.tile[data-open="${el.dataset.open}"]`);if(tile)pointAt(tile);});el.addEventListener('pointerdown',()=>{const tile=$(`.tile[data-open="${el.dataset.open}"]`);if(tile)pointAt(tile);});el.addEventListener('click',e=>{e.preventDefault();openChapter(el.dataset.open,el);});});
  $('.brand').addEventListener('click',e=>{e.preventDefault();if(active)closeChapter();});
  function populate(id){content.replaceChildren(document.getElementById(id+'-content').content.cloneNode(true));$('#chapter-index').textContent=names[id];active=id;chapter.scrollTop=0;}
  function animate(element,keyframes,options){if(reduce){return Promise.resolve();}const a=element.animate(keyframes,options);return a.finished.catch(()=>{});}
- function transitionSurface(tile){const rect=tile.getBoundingClientRect(),copy=document.createElement('div');copy.className='transition-surface';const image=tile.querySelector('img').cloneNode();image.alt='';copy.append(image);Object.assign(copy.style,{left:rect.x+'px',top:rect.y+'px',width:rect.width+'px',height:rect.height+'px',transformOrigin:'top left',borderRadius:getComputedStyle(tile).borderRadius});document.body.append(copy);return {copy,rect};}
+ function transitionSurface(tile){const rect=tile.getBoundingClientRect(),copy=document.createElement('div');copy.className='transition-surface';const image=tile.querySelector('img').cloneNode();image.alt='';copy.append(image);Object.assign(copy.style,{left:rect.x+'px',top:rect.y+'px',width:rect.width+'px',height:rect.height+'px',transformOrigin:'top left',borderRadius:getComputedStyle(tile).borderRadius});document.body.append(copy);let clipStart='polygon(0% 0%,100% 0%,100% 100%,0% 100%)',clipEnd=clipStart;const shape=document.querySelector('#clip-'+tile.dataset.open+' path');if(shape&&innerWidth>760){const length=shape.getTotalLength(),label=tile.querySelector('.tile-label').getBoundingClientRect(),cx=(label.x+label.width/2-rect.x)/rect.width,cy=(label.y+label.height/2-rect.y)/rect.height,points=Array.from({length:80},(_,i)=>shape.getPointAtLength(length*i/80));clipStart='polygon('+points.map(p=>`${p.x*100}% ${p.y*100}%`).join(',')+')';clipEnd='polygon('+points.map(p=>`${((p.x-cx)*12+.5)*100}% ${((p.y-cy)*12+.5)*100}%`).join(',')+')';copy.style.clipPath=clipStart;}return {copy,rect,clipStart,clipEnd};}
  async function openChapter(id,trigger,fromHistory=false){if(!names[id]||busy)return;if(active){if(active===id)return;busy=true;await animate(content,[{opacity:1,transform:'translateY(0)'},{opacity:0,transform:'translateY(-16px)'}],{duration:160,fill:'forwards'});populate(id);if(!fromHistory)history.pushState({chapter:id},'', '#'+id);content.getAnimations().forEach(a=>a.cancel());await animate(content,[{opacity:0,transform:'translateY(20px)'},{opacity:1,transform:'translateY(0)'}],{duration:350,easing:'cubic-bezier(.2,.8,.2,1)'});$('#chapter-title').focus({preventScroll:true});busy=false;return;}
  busy=true;lastTrigger=trigger||$(`.tile[data-open="${id}"]`);const tile=$(`.tile[data-open="${id}"]`);pointAt(tile);tile.classList.add('chosen');landing.classList.add('leaving');
- if(!reduce){const {copy,rect}=transitionSurface(tile);await animate(copy,[{transform:'translate(0,0) scale(1)',borderRadius:getComputedStyle(tile).borderRadius,opacity:1},{transform:`translate(${-rect.x}px,${-rect.y}px) scale(${innerWidth/rect.width},${innerHeight/rect.height})`,borderRadius:'0px',opacity:1}],{duration:650,easing:'cubic-bezier(.65,0,.25,1)',fill:'forwards'});copy.remove();}
+ if(!reduce){const {copy,rect,clipStart,clipEnd}=transitionSurface(tile);await animate(copy,[{transform:'translate(0,0) scale(1)',clipPath:clipStart,borderRadius:getComputedStyle(tile).borderRadius,opacity:1},{transform:`translate(${-rect.x}px,${-rect.y}px) scale(${innerWidth/rect.width},${innerHeight/rect.height})`,clipPath:clipEnd,borderRadius:'0px',opacity:1}],{duration:650,easing:'cubic-bezier(.65,0,.25,1)',fill:'forwards'});copy.remove();}
  populate(id);document.body.style.overflow='hidden';chapter.showModal();if(!fromHistory)history.pushState({chapter:id},'', '#'+id);$('#chapter-title').focus({preventScroll:true});await animate(content,[{opacity:0,transform:'translateY(25px) scale(.985)'},{opacity:1,transform:'translateY(0) scale(1)'}],{duration:500,easing:'cubic-bezier(.2,.8,.2,1)'});busy=false;
  }
  async function closeChapter(fromHistory=false){if(!active||busy)return;busy=true;const id=active,tile=$(`.tile[data-open="${id}"]`);await animate(content,[{opacity:1,transform:'translateY(0)'},{opacity:0,transform:'translateY(15px) scale(.985)'}],{duration:200,easing:'ease-in'});chapter.close();document.body.style.overflow='';active=null;
- if(!reduce){const {copy,rect}=transitionSurface(tile);await animate(copy,[{transform:`translate(${-rect.x}px,${-rect.y}px) scale(${innerWidth/rect.width},${innerHeight/rect.height})`,borderRadius:'0px',opacity:1},{transform:'translate(0,0) scale(1)',borderRadius:getComputedStyle(tile).borderRadius,opacity:1}],{duration:550,easing:'cubic-bezier(.65,0,.25,1)'});copy.remove();}
+ if(!reduce){const {copy,rect,clipStart,clipEnd}=transitionSurface(tile);await animate(copy,[{transform:`translate(${-rect.x}px,${-rect.y}px) scale(${innerWidth/rect.width},${innerHeight/rect.height})`,clipPath:clipEnd,borderRadius:'0px',opacity:1},{transform:'translate(0,0) scale(1)',clipPath:clipStart,borderRadius:getComputedStyle(tile).borderRadius,opacity:1}],{duration:550,easing:'cubic-bezier(.65,0,.25,1)'});copy.remove();}
  landing.classList.remove('leaving');$$('.tile.chosen').forEach(t=>t.classList.remove('chosen'));if(!fromHistory)history.replaceState(null,'',location.pathname+location.search);lastTrigger?.focus({preventScroll:true});busy=false;
  }
  $('.back').addEventListener('click',()=>closeChapter());$('.close').addEventListener('click',()=>closeChapter());chapter.addEventListener('cancel',e=>{e.preventDefault();closeChapter();});

diff --git a/index.html b/index.html
@@ -1,1 +1,1 @@
-<!doctype html><html lang="en"><head><meta charset="utf-8"><meta name="viewport" content="width=device-width,initial-scale=1"><title>Joshua Blackwell — Portfolio design explorations</title><style>*{box-sizing:border-box}body{margin:0;padding:40px;background:#f3f0e9;color:#203b36;font:16px/1.5 system-ui}main{max-width:1200px;margin:auto}h1{font-weight:500;letter-spacing:-.04em;font-size:44px;line-height:1.1}p{max-width:750px}.choices{display:grid;grid-template-columns:1fr 1fr;gap:24px;margin-top:35px}a{display:block;color:inherit;background:#e3e7dc;text-decoration:none;padding:20px}a:focus-visible{outline:3px solid #994e34;outline-offset:4px}img{width:100%;height:340px;object-fit:cover;object-position:top}h2{font-size:23px;font-weight:500;margin:18px 0 10px}small{color:#6b7c73;font-size:11px}a p{font-size:14px}strong{display:block;margin-top:15px;font-size:14px}@media(max-width:700px){body{padding:24px}h1{font-size:34px}.choices{grid-template-columns:1fr}img{height:300px}}</style></head><body><main><small>PORTFOLIO DESIGN EXPLORATIONS · JOSHUA CHANCE BLACKWELL</small><h1>Two ways into the same story.</h1><p>Two portfolio directions, bringing together my professional experience, technical work, and photography. Choose a design to explore.</p><div class="choices"><a href="curved/"><img src="curved-preview.jpg" alt="Navy curved switchboard with four photographic panels"><h2>01 / Curved switchboard</h2><p>A rotating center arrow guides the choice. A panel expands into a full section and returns to the overview.</p><strong>Open the working preview ↗</strong></a><a href="photo/"><img src="photo-preview.jpg" alt="Green and rust personal portfolio with a large Colorado photograph"><h2>02 / Photo study</h2><p>A lighter, open layout. Career and personal panels resize in place, with a browsable photographic collection.</p><strong>Open the working preview ↗</strong></a></div><p><small>Use “Both designs” at the top of either preview to return here, or switch directly to the other design.</small></p></main></body></html>
+<!doctype html><html lang="en"><head><meta charset="utf-8"><meta name="viewport" content="width=device-width,initial-scale=1"><title>Joshua Blackwell — Portfolio design explorations</title><style>*{box-sizing:border-box}body{margin:0;padding:40px;background:#f3f0e9;color:#203b36;font:16px/1.5 system-ui}main{max-width:1200px;margin:auto}h1{font-weight:500;letter-spacing:-.04em;font-size:44px;line-height:1.1}p{max-width:750px}.choices{display:grid;grid-template-columns:1fr 1fr;gap:24px;margin-top:35px}a{display:block;color:inherit;background:#e3e7dc;text-decoration:none;padding:20px}a:focus-visible{outline:3px solid #994e34;outline-offset:4px}img{width:100%;height:340px;object-fit:cover;object-position:top}h2{font-size:23px;font-weight:500;margin:18px 0 10px}small{color:#6b7c73;font-size:11px}a p{font-size:14px}strong{display:block;margin-top:15px;font-size:14px}@media(max-width:700px){body{padding:24px}h1{font-size:34px}.choices{grid-template-columns:1fr}img{height:300px}}</style></head><body><main><small>PORTFOLIO DESIGN EXPLORATIONS · JOSHUA CHANCE BLACKWELL</small><h1>Two ways into the same story.</h1><p>Two portfolio directions, bringing together my professional experience, technical work, and photography. Choose a design to explore.</p><div class="choices"><a href="curved/"><img src="curved-preview.jpg" alt="Navy switchboard with sweeping photographic regions"><h2>01 / Curved switchboard</h2><p>Sweeping photographic regions meet at a rotating paper-plane control. Each region expands into its section and returns to the overview.</p><strong>Open the working preview ↗</strong></a><a href="photo/"><img src="photo-preview.jpg" alt="Green and rust personal portfolio with a large Colorado photograph"><h2>02 / Photo study</h2><p>A lighter, open layout. Career and personal panels resize in place, with a browsable photographic collection.</p><strong>Open the working preview ↗</strong></a></div><p><small>Use “Both designs” at the top of either preview to return here, or switch directly to the other design.</small></p></main></body></html>
